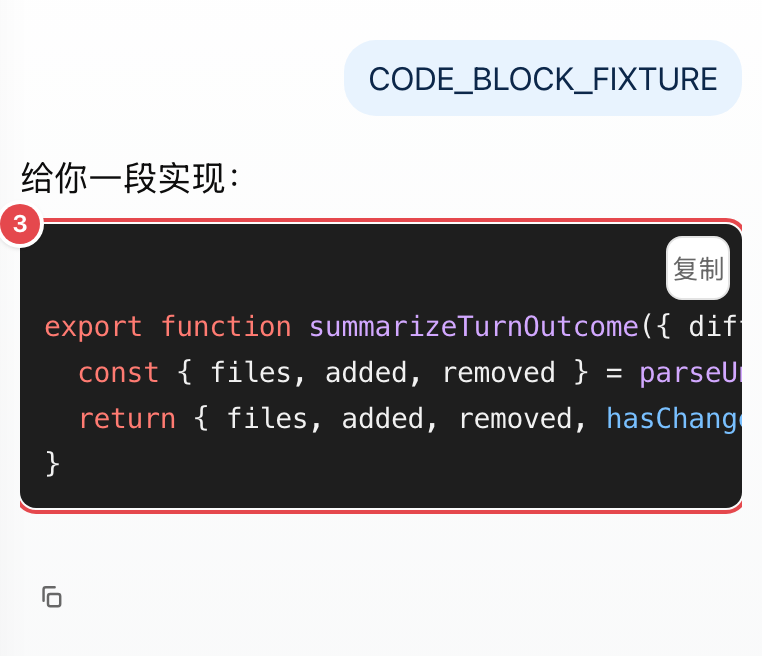
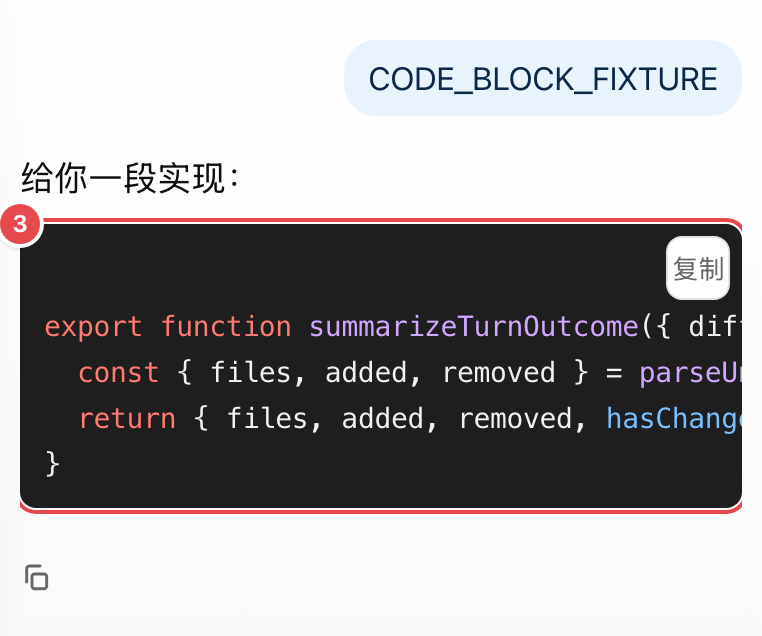
fix(ui): 复制按钮贴回正文，图标对齐左缘
按钮孤零零掉在正文下方一大段距离外。实测两处几何都不对：

- 间距 18px：.assistant-turn 的 flex gap 是 12px（段落之间的呼吸量），
  我又叠了 6px margin-top。操作条属于上面那条回复、不是下一个独立块，
  用负 margin 收回一半，落到 8px。
- 图标左缘比正文内缩 9px：按钮 32px 宽、图标居中，对齐的是那个看不见的
  点击框而不是图标本身。抵掉这 8px，改成图标对齐正文。
- 顺带把图标从 13px（没设尺寸时 SVG 的落点）提到 16px——原来比正文小得多
  又偏淡，像个没画完的东西。

触摸目标仍是 32x32，负 margin 之后按钮左缘落在 #messages 的 padding 区内，
不溢出容器。

Tested: npm run lint 绿
Tested: npx playwright test --project=mobile-chrome 103 passed / 0 failed
Tested: 实测几何 间距 18→8px、图标缩进 9→0px、图标 13→16px、overflowsLeft false
Not-tested: 真机上单手够到左下角这个按钮是否顺手——32px 在 44px 下限以下，
        那条门禁只管高风险操作，复制不在其列

diff --git a/public/css/app.css b/public/css/app.css
@@ -1365,8 +1365,15 @@ body {
 .turn-actions {
   display: flex;
   align-items: center;
-  gap: var(--space-2);
-  margin-top: var(--space-2);
+  gap: var(--space-1);
+  /* .assistant-turn 的 flex gap 是 12px——那是段落与段落之间的呼吸量。操作条属于
+     上面那条回复，不是下一个独立块；12px 再叠 6px margin 实测 18px，看着像一个
+     图标掉在正文外面。负 margin 收回一半，落到 8px。 */
+  margin-top: calc(var(--space-1) - var(--space-3));
+  /* 按钮 32px 宽、图标 16px 居中，图标左缘因此比正文左缘内缩 8px（实测 9px），
+     一列文字下面挂个缩进的图标，看起来就是没对齐。把这 8px 抵掉——要对齐的是
+     图标本身，不是按钮那个看不见的点击框。 */
+  margin-left: -8px;
 }
 .turn-action {
   background: transparent;
@@ -1379,6 +1386,11 @@ body {
   justify-content: center;
   min-width: 32px;
   min-height: 32px;
+}
+/* 不设的话 SVG 落到 13px，比正文小得多、还偏淡，像个没画完的东西。 */
+.turn-action .ui-icon {
+  width: 16px;
+  height: 16px;
 }
 .turn-actions[data-copied="true"]::after {
   content: '已复制';
